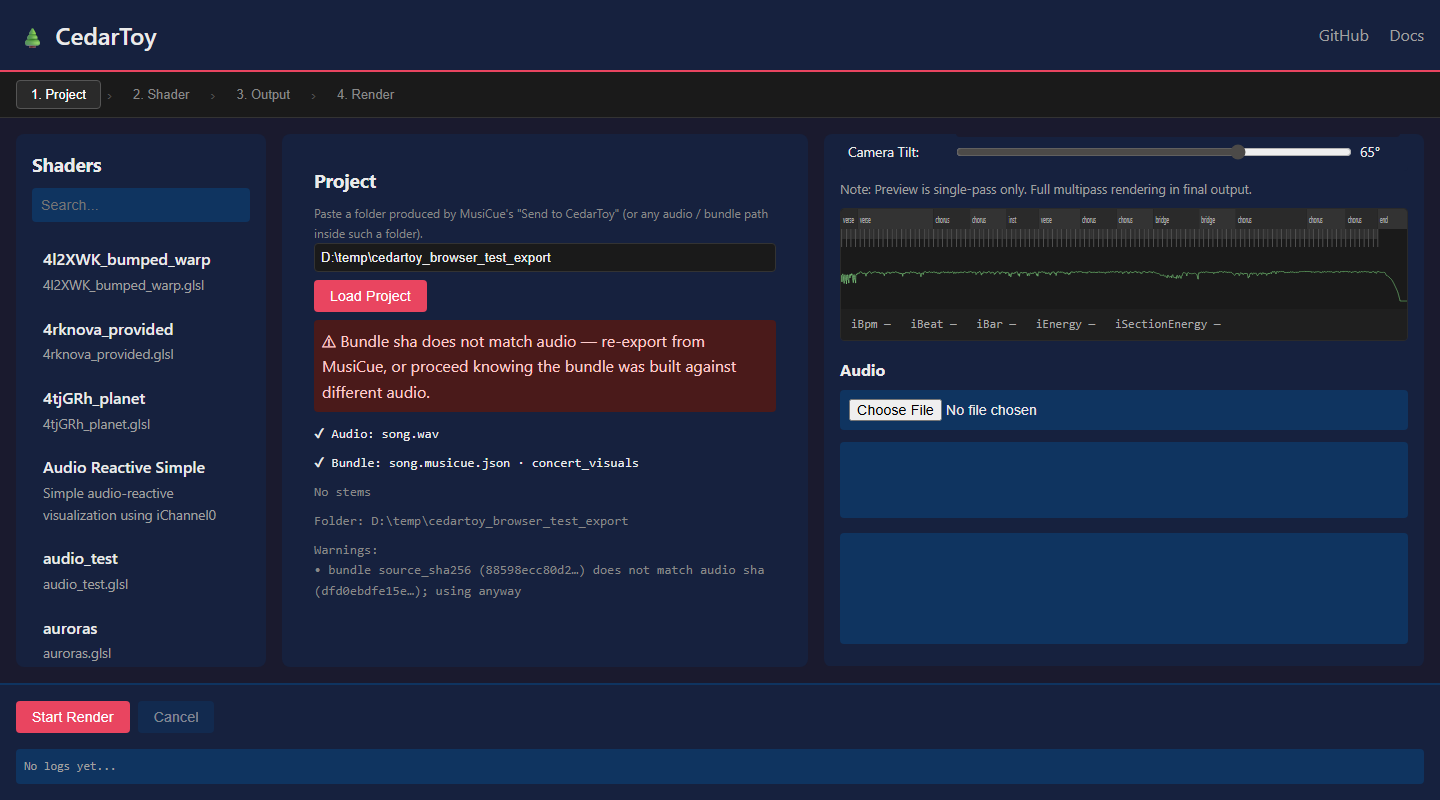
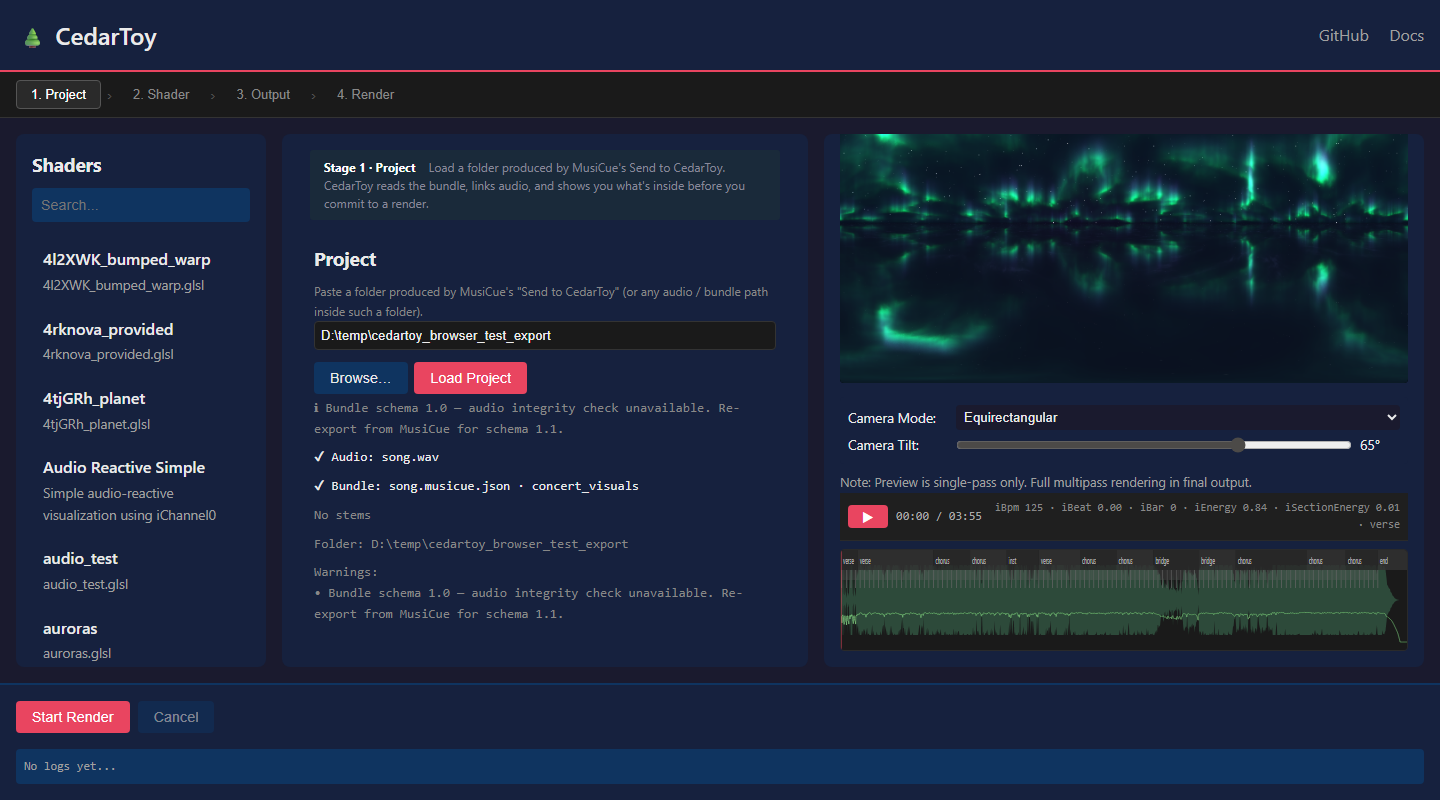
docs(readme): v0.5 — unified sync, paste-back drawer, native picker, 2x2 output
Rewrites the README to reflect the five plans that shipped:
- Native Browse... folder picker on Stage 1
- Bundle schema 1.1 (no more false-positive sha warning)
- Stage helper bars across all four stages
- Unified transport strip (one playhead for audio + shader + scrubber)
- Cue scrubber with waveform underlay
- 2x2 grouped output grid (Geometry / Time / Quality / File) with tooltips
- Paste-back drawer in Stage 2 + compile-error fix-it loop

Refreshes all six screenshots from the live UI via the existing
capture_readme_screenshots.py script.

Changed region(s): [[0.2188, 0.1562, 1.0, 0.8125], [0.5625, 0.3438, 0.5938, 0.375]]

diff --git a/README.md b/README.md
@@ -1,8 +1,8 @@
 # CedarToy
 
-> **Status:** v0.4 — Send-to-CedarToy folder workflow, stage-rail UI, cue scrubber, and reactivity prompt landed.
+> **Status:** v0.5 — Unified preview-sync (audio + shader + cue scrubber in one playhead), paste-back Claude round-trip with compile-error fix-it loop, native folder picker, 2×2 output grid, per-stage helper bars, bundle schema 1.1 (no more false-positive sha warning).
 
-**CedarToy** is a headless, high-quality GLSL shader renderer designed for generative art, video production, and VR/dome content. It is compatible with Shadertoy shader syntax and extends it with high-resolution tiling, temporal supersampling, spherical camera mappings, and music-aware reactivity driven by [MusiCue](https://github.com/cedarconnor/MusiCue) bundles.
+**CedarToy** is a headless, high-quality GLSL shader renderer for generative art, video production, and VR/dome content. It is compatible with Shadertoy shader syntax and extends it with high-resolution tiling, temporal supersampling, spherical camera mappings, and music-aware reactivity driven by [MusiCue](https://github.com/cedarconnor/MusiCue) bundles.
 
 The Web UI is a four-stage workflow optimized around the core deliverable: a long, high-resolution spherical render driven by a structured song bundle.
 
@@ -23,11 +23,11 @@ Open <http://localhost:8080>. The UI opens on **Stage 1 — Project**.
 
 ## The workflow
 
-The UI is a four-stage rail across the top: **1. Project → 2. Shader → 3. Output → 4. Render**. Each stage owns a focused panel; the shader browser (left) and preview (right) are persistent.
+The UI is a four-stage rail across the top: **1. Project → 2. Shader → 3. Output → 4. Render**. Each stage opens with a compact helper bar (bold title + a one-line "what to do here"), and the shader browser (left) plus preview (right) are persistent.
 
 ### Stage 1 — Project
 
-Drop in a project folder produced by MusiCue's "Send to CedarToy" (or paste any audio / bundle / stem path inside such a folder). CedarToy resolves the folder, validates the bundle's `source_sha256` against the audio file, and surfaces what it found.
+Click **Browse…** for a native OS folder picker, or paste a path into the input. Once loaded, CedarToy validates the bundle against the audio file and shows what it found.
 
 ![Stage 1 — empty Project panel](docs/screenshots/01_project_empty.png)
 
@@ -36,29 +36,37 @@ A project folder follows this layout (see [§ MusiCue integration](#musicue-inte
 ```
 my_song/
   song.wav                 audio
-  song.musicue.json        bundle CedarToy reads
+  song.musicue.json        bundle CedarToy reads (schema 1.1)
   manifest.json            grammar + MusiCue version + original filename
   stems/                   optional — for hand-mixing or future per-stem uniforms
     drums.wav  bass.wav  vocals.wav  other.wav
 ```
 
-After loading, the panel shows the resolved audio file, the bundle's grammar, available stems, the resolved folder, and any warnings (e.g. sha mismatch when the bundle was built against a different decode of the same source).
+After loading, the panel shows audio, bundle grammar, stems, the resolved folder, and any warnings. Bundle schema 1.1 carries a `decoded_audio_sha256` so the integrity check fires **only on real corruption** — older 1.0 bundles get a one-line "integrity check unavailable; re-export for 1.1" note instead of a false-positive warning.
 
 ![Stage 1 — project loaded](docs/screenshots/02_project_loaded.png)
 
-The audio and bundle paths are propagated into the render config automatically — you don't need to type them again.
+The audio and bundle paths flow directly into the render config — you don't type them again. The transport strip arms itself with `<audio src="/api/project/audio?path=…">` so the play button is ready to use.
 
 ### Stage 2 — Shader
 
-Pick a shader from the left rail (or type a path). CedarToy parses the shader source for known MusiCue-aware uniforms and shows you which ones are **declared** (i.e. the shader will react to that signal) and which ones are **missing** (the shader doesn't use that signal yet).
+Pick a shader from the left rail. CedarToy parses its source for known MusiCue-aware uniforms and shows which are **declared** vs. **missing**.
 
-![Stage 2 — shader picked, reactivity status visible](docs/screenshots/03_shader_stage.png)
+![Stage 2 — shader picked, reactivity readout + paste-back drawer](docs/screenshots/03_shader_stage.png)
 
-`Make this shader reactive ▸` copies a Claude-ready markdown prompt to your clipboard. The prompt embeds the current shader source plus the full reactivity cookbook (`docs/reactivity/REACTIVITY_COOKBOOK.md`) and instructs the LLM to retrofit the shader using documented idioms (`kick_pulse_camera`, `beat_pump_zoom`, `section_palette_shift`, `energy_brightness_lift`, etc.) while preserving the original look. Paste the prompt into Claude, take the GLSL it returns, and drop it back into the shader file.
+**Make this shader reactive ▸** copies a Claude-ready markdown prompt to your clipboard (embeds the current shader source + the full reactivity cookbook). Paste it into [Claude](https://claude.ai), take the GLSL it returns, and paste the **entire reply** into the drawer at the bottom of Stage 2.
+
+Hit **Apply**. CedarToy:
+
+1. Extracts the first ` ```glsl ` fenced block from your paste (or accepts raw GLSL).
+2. Atomically writes it to `shaders/<name>_reactive.glsl` (the original stays untouched).
+3. Switches the preview to the new shader and recompiles.
+
+If WebGL refuses the GLSL, the drawer flips to an error state, shows the verbatim `gl.getShaderInfoLog()` log, and surfaces a **📋 Copy fix-it prompt ▸** button. The fix-it prompt bundles the original shader, the broken attempt, the compile error, and the full cookbook so Claude has everything it needs to repair the bug. Paste the fix back into the drawer, hit Apply again, loop until clean. **Apply over original** (with a confirm) replaces the source file when you're happy.
 
 ### Stage 3 — Output
 
-Spherical-first output presets, sized for the kind of render CedarToy exists to produce. The estimate at the bottom is a live computation driven by `~/.cedartoy/render_history.json` — once you've done one real render of a shader at a given resolution, every subsequent estimate sharpens.
+Spherical-first presets, sized for the kind of render CedarToy exists to produce. The output panel is a **2×2 grid grouped by concern** — Geometry, Time, Quality, File — with every input tooltipped so you can hover any field for a "what does this do" hint. The render estimate is pinned at the bottom and sharpens after each real render of the same shader at the same resolution.
 
 ![Stage 3 — Output panel with equirectangular preset applied](docs/screenshots/04_output_stage.png)
 
@@ -68,40 +76,58 @@ Spherical-first output presets, sized for the kind of render CedarToy exists to 
 | **LL180 dome** | 180° fisheye for hemispherical projection | Planetariums, dome shows |
 | **Flat 16:9** | Standard perspective | Preview / testing / non-immersive output |
 
-Tiling, supersampling, temporal samples (motion blur), shutter, format, and bit depth all live here. Renders that exceed 1 hour or 50 GB trigger a confirm modal at stage 4 before they start.
+Renders that exceed 1 hour or 50 GB trigger a confirm modal at Stage 4 before they start.
 
-### Cue scrubber + live uniform readout
+### Unified transport + cue scrubber
 
-Below the preview, the cue scrubber renders the bundle's structural data over the song's duration:
+Below the preview canvas, the **transport strip** owns playback for everything in the page:
 
+- One ▶ button drives audio + shader + cue scrubber.
+- One time display (`mm:ss / mm:ss`).
+- One readout of the bundle's current uniforms: `iBpm  ·  iBeat  ·  iBar  ·  iEnergy  ·  iSectionEnergy  ·  <section label>`.
+- Keyboard: **Space** toggles play, **←/→** seeks ±1 s, **`[`/`]`** jumps to previous / next section.
+
+The **cue scrubber** beneath it renders the bundle's structural data over the song's duration, with audio waveform painted as an underlay:
+
+- **Waveform peaks** (the dim green fill across the rail)
 - **Section blocks** (intro / verse / chorus / bridge / outro)
-- **Bar and beat ticks** (downbeats taller than off-beats)
-- **Kick onsets** (dots on the lower half)
+- **Bar and beat ticks** (downbeats taller)
+- **Kick onsets** (red dots on the lower half)
 - **Global energy curve** (green polyline)
+- **Playhead** (red vertical line) — same line that's driven by the transport strip
 
-![Cue scrubber visualizes sections, beats, kicks, and energy from the bundle](docs/screenshots/05_cue_scrubber.png)
+![Cue scrubber with waveform underlay, sections, beats, kicks, energy + playhead](docs/screenshots/05_cue_scrubber.png)
 
-The read-out below the SVG shows the bundle uniforms at the current preview time (`iBpm`, `iBeat`, `iBar`, `iEnergy`, `iSectionEnergy`) — so you can confirm "the shader brightens on the drop" *before* committing to a multi-hour render. Click anywhere on the timeline to jump the preview playhead there.
+Click anywhere on the scrubber to seek; audio + shader + playhead jump together. The transport's `transport-frame` event is the single source of truth for time — preview-panel, cue-scrubber, and the readout all subscribe to it.
 
 ### Stage 4 — Render
 
-Hit **Start Render** in the footer. Progress streams over WebSocket. Completed renders list every emitted frame and offer an Open Folder button. The render history file is updated on success so the next estimate has real data instead of the 5 s/frame default.
+Hit **Start Render** in the footer. Progress streams over WebSocket. Completed renders list every emitted frame and offer an Open Folder button. The render history file (`~/.cedartoy/render_history.json`) is updated on success so the next estimate has real data instead of the 5 s/frame default.
 
 ![Stage 4 — completed render with frame list and bundle log line](docs/screenshots/06_render_complete.png)
 
-The log line in the footer confirms which bundle was loaded (and whether the sha matched the audio).
+The log line in the footer confirms which bundle was loaded.
 
 ---
 
 ## MusiCue integration
 
-CedarToy can drive a shader from raw FFT amplitude alone, but if you also use [**MusiCue**](https://github.com/cedarconnor/MusiCue), you get structured musical events instead — beats, drum hits, section transitions, MIDI activity — packaged as a single JSON file that ships next to your audio.
+CedarToy can drive a shader from raw FFT amplitude alone, but if you also use [**MusiCue**](https://github.com/cedarconnor/MusiCue), you get structured musical events — beats, drum hits, section transitions, MIDI activity — packaged next to your audio.
 
 ### Recommended: portable project folder
 
 In MusiCue, open a song in the Editor and click **→ Send to CedarToy**. Pick an output folder (defaults to `exports/<song>/`), choose a grammar (default `concert_visuals`), tick **Include stems** if you want them, and click **Export ▶**. MusiCue writes the folder layout shown in [§ Stage 1](#stage-1--project) above.
 
-On the CedarToy machine, point Stage 1 at that folder. Done.
+On the CedarToy machine, hit **Browse…** in Stage 1 and pick the exported folder. Done.
+
+### Bundle schema 1.1
+
+The bundle JSON (`song.musicue.json`) carries both:
+
+- `source_sha256` — sha of the original m4a/mp3 (traceability back to the user's source).
+- `decoded_audio_sha256` — sha of the WAV CedarToy actually reads (real integrity check).
+
+CedarToy compares the loaded audio's sha against `decoded_audio_sha256`. The warning fires *only* on real corruption or replacement. Schema 1.0 bundles (no `decoded_audio_sha256`) read with a benign info note instead.
 
 ### Headless equivalents
 
@@ -116,11 +142,9 @@ musicue export-bundle my_music.mp3 --folder exports/my_music --include-stems
 musicue export-bundle my_music.mp3
 ```
 
-The legacy single-file form writes `my_music.musicue.json` next to the audio; CedarToy still auto-discovers it sibling-style when you point at the audio. Use the folder form when you'll be moving the result between machines.
-
 ### Bundle-aware shader uniforms
 
-CedarToy binds five new uniforms whenever a bundle is loaded. Declaring any of them in your GLSL opts the shader into bundle-aware reactivity:
+CedarToy binds five uniforms whenever a bundle is loaded. Declaring any of them in your GLSL opts the shader into bundle-aware reactivity:
 
 ```glsl
 uniform float iBpm;            // current BPM
@@ -154,7 +178,12 @@ CedarToy ships two reactivity authoring assets under [`docs/reactivity/`](docs/r
 1. **`MUSICUE_REACTIVITY_PROMPT.md`** — paste-able Claude prompt template.
 2. **`REACTIVITY_COOKBOOK.md`** — versioned cookbook of GLSL idioms (`kick_pulse_camera`, `beat_pump_zoom`, `section_palette_shift`, `energy_brightness_lift`, `bar_anchored_strobe`, `melodic_glow_tint`, `hat_grain`).
 
-The fast path: in Stage 2, click **Make this shader reactive ▸**. The button reads the current shader, fills the prompt with its source and the full cookbook, and copies the result (an ~11.8 KB markdown blob) to your clipboard. Paste into [Claude](https://claude.ai), and Claude returns a modified shader in a single fenced GLSL block — drop it back into the shader file.
+The fast path:
+
+1. **Stage 2** → click **Make this shader reactive ▸** — copies an ~11 KB markdown prompt to your clipboard.
+2. Paste into [Claude](https://claude.ai). Claude returns a modified shader in a fenced GLSL block.
+3. Paste Claude's whole reply into the drawer at the bottom of Stage 2 → hit **Apply** → preview now runs `<shader>_reactive.glsl`.
+4. If it doesn't compile, hit **📋 Copy fix-it prompt ▸** in the drawer's error state. The fix-it prompt bundles the original shader, the broken attempt, the GL error, and the cookbook. Paste it into Claude, take the fix, paste back into the drawer, Apply. Repeat until clean.
 
 Each cookbook entry documents which inputs it reads, what it modulates, a default amplitude, and a recommended cap so the original visual identity stays recognizable even when the song is silent.
 
@@ -205,6 +234,7 @@ CedarToy parses these and renders sliders in the Web UI under the shader-paramet
 - [Developer Guide](docs/DEVELOPER.md) — Architecture notes, render-job lifecycle, reliability extension points.
 - [Reactivity Prompt](docs/reactivity/MUSICUE_REACTIVITY_PROMPT.md) — Claude template.
 - [Reactivity Cookbook](docs/reactivity/REACTIVITY_COOKBOOK.md) — GLSL idiom library.
+- [UX & Sync Pass spec (v0.5)](docs/superpowers/specs/2026-05-16-cedartoy-ux-sync-pass.md) — design doc for the five plans (A–E) that shipped v0.5.
 
 ---
 
